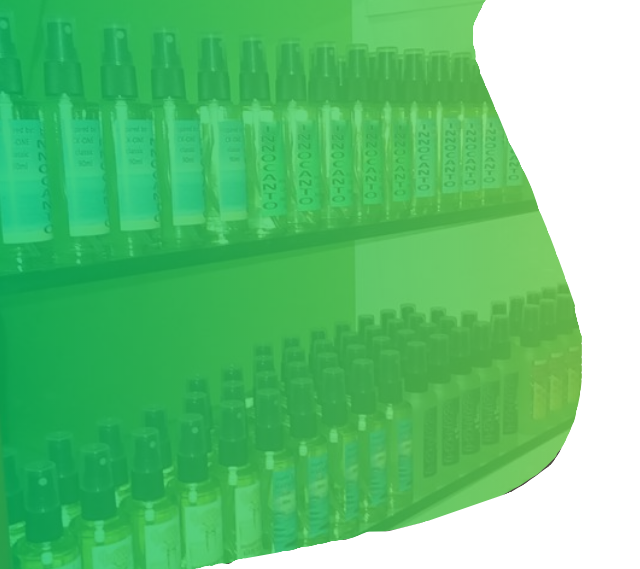
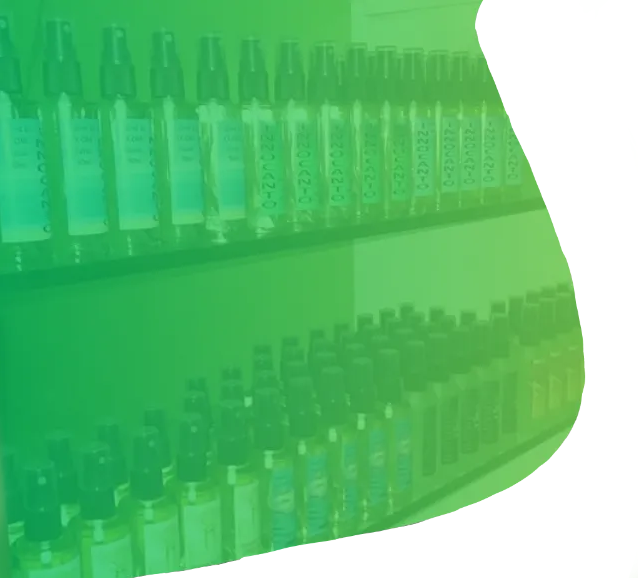
edit imgs

diff --git a/index.php b/index.php
@@ -415,7 +415,7 @@
         <div class="col-md-6">
           <div class="box">
             <div class="img-box">
-              <img src="images/b-1.jpg" alt="">
+              <img src="images/b-1.png" alt="">
             </div>
             <div class="detail-box">
               <h3>
